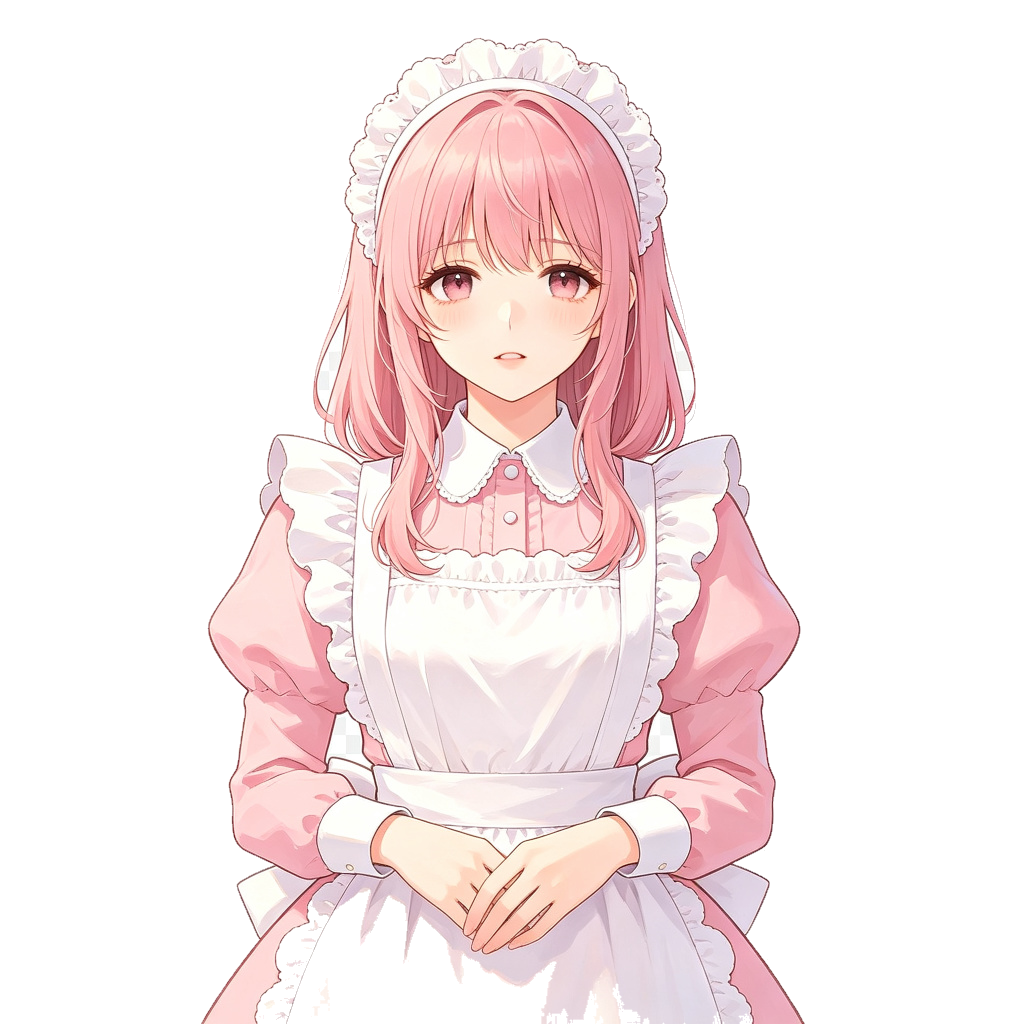
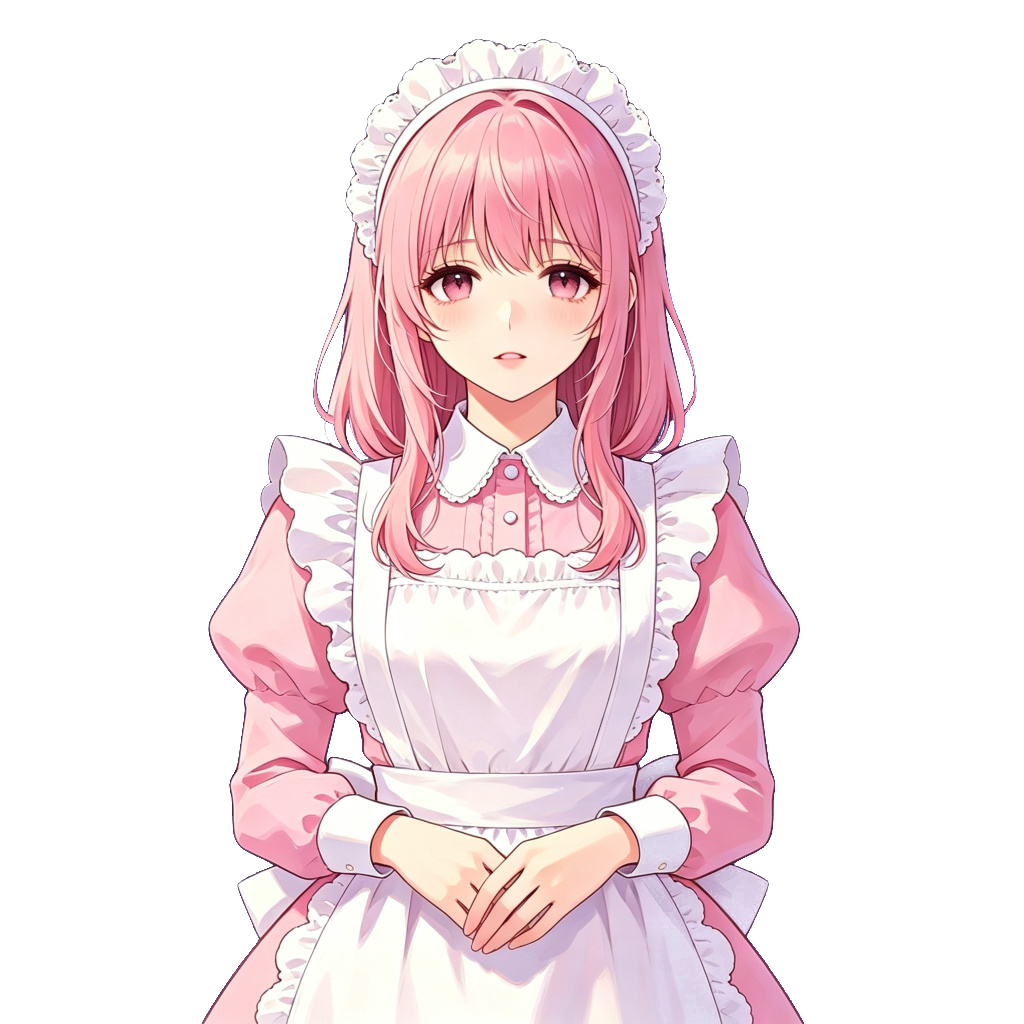
fix: v2.2.2 女仆立绘围裙下摆缺失修复
本版只有一项变更：`gui/assets/maid/normal.png` 换成完整版立绘。

根因：这批立绘的透明化是后来用脚本按颜色阈值全局删白做的，而围裙本身是白色 ⇒
**被轮廓包住的白色被整块删掉**。深色主题下透出底色、呈一块被啃掉的缺口；
浅色主题下白对白几乎看不出，所以长期未被发现。

取证（深底渲染 + 量化）：
- 破损版 `f331be000997`：底边衣物占比 **23.05%**，下摆处一大块内部空洞；
- 完整版 `890cfe520d94`：底边衣物占比 **58.59%**，仅边缘细游丝。

范围：复核其余 35 张女仆表情，`>=1200px` 内部空洞 **0 张** ⇒ 只改这一张。
本版**无代码逻辑变更**（另含两个测试文件里注释中的取证路径订正）。

diff --git a/tests/test_v22_1_blackbox_fixes.py b/tests/test_v22_1_blackbox_fixes.py
@@ -1518,7 +1518,7 @@ _WP5_PANEL_FLAT_ATTRS = (
     ("emoji_btn", "😊 表情", "quickActionBtn"),
     ("voice_btn", "🎤 语音", "quickActionBtn"),
 )
-#: 反事实放宽的高度（px）。实测（四主题一致，曲线见 `_release_v220/_qa_wp1/probe_ink_curve.txt`）：
+#: 反事实放宽的高度（px）。实测（四主题一致，曲线见 `_release_work/_qa_wp1/probe_ink_curve.txt`）：
 #: `#quickActionBtn` 定高 28 → 内容区 22 / 墨迹 9；加高 16px 后墨迹**仍是 9**
 #: `#exportChatBtn`  32×28 → 内容区 26 / 墨迹 10；加高 16px 后墨迹**仍是 10**
 #: ⇒ 「放宽高度后墨迹不再变多」可用来判「没被纵向裁字」。
@@ -1785,7 +1785,7 @@ def test_wp5_flat_button_metric_is_not_vacuous(qapp, isolated_env):
 
     v2.2.2(retarget)：样本换成**主面板真实控件** `#quickActionBtn`（`emoji_btn`，定高 28，
     主题层 `padding: 2px 8px`）。实测曲线（ui_minimal / ui_whale 一致，
-    `_release_v220/_qa_wp1/probe_ink_curve.txt`）：
+    `_release_work/_qa_wp1/probe_ink_curve.txt`）：
         h=28 → 内容区 22 / 墨迹 9   ← 自然档，判据必须判**合格**
         h=14 → 内容区  8 / 墨迹 7   ← **部分裁字**（墨迹仍 > 0，就是「8 > 4」那类盲区）
         h= 6 → 内容区  0 / 墨迹 0

diff --git a/CHANGELOG.md b/CHANGELOG.md
@@ -2,6 +2,21 @@
 
 码铃各版本的改动历史记录；项目的安装与使用说明见 [README.md](README.md)。
 
+## v2.2.2 — 女仆立绘修复（围裙下摆缺失）
+
+**版本**：**2.2.2**（2026-09-17）。**分发**：`MaLing_v2.2.2_Desktop.zip`（桌面版，解压即用）与 `MaLing_v2.2.2_Portable.exe`（单文件版，免解压），各附 SHA-256 校验文件。
+
+本版**只改了一张立绘，无代码逻辑变更**。
+
+### Fixed
+- **女仆立绘的围裙下摆缺了一块**（`gui/assets/maid/normal.png`）：深色主题下裙摆处直接透出底色、呈一块被啃掉的缺口；浅色主题下白对白，几乎看不出，因此长期未被发现。
+  - **根因**：这批立绘的透明化是后来用脚本**按颜色阈值全局删白**做的，而**围裙本身就是白色** ⇒ 被轮廓包住的白色被**整块删掉**。与 2026-09-14 记录过的母题同源（当时是鲸鱼娘那批）。
+  - **量化判据**（深底渲染 + 「底边整行不透明像素占比」）：破损版 **23.05%** → 完整版 **58.59%**；内部空洞由「下摆一大块」降为「仅边缘细游丝」。
+  - **范围复核**：其余 **35 张**女仆表情的 `≥1200px` 内部空洞为 **0 张** ⇒ 本次只改这一张。
+
+### Changed
+- 两个测试文件里取证路径注释随工作台目录改名同步订正（`_release_v220` → `_release_work`），避免留下悬空路径。
+
 ## v2.2.1 — 可辨识性修复 + 更新链路修复
 
 **版本**：**2.2.1**（2026-09-16）。**测试**：**2229 passed / 9 skipped / 1 failed**（唯一失败为**预期内**的 `tests/test_v20_assets.py::TestVersionJsonContract::test_assets_contract` —— 它断言 `version.json` 的 `assets.*.size > 0`，而该字段要等**本版构建完成**后回填真实 sha256/size 才非零。填完即绿）。
